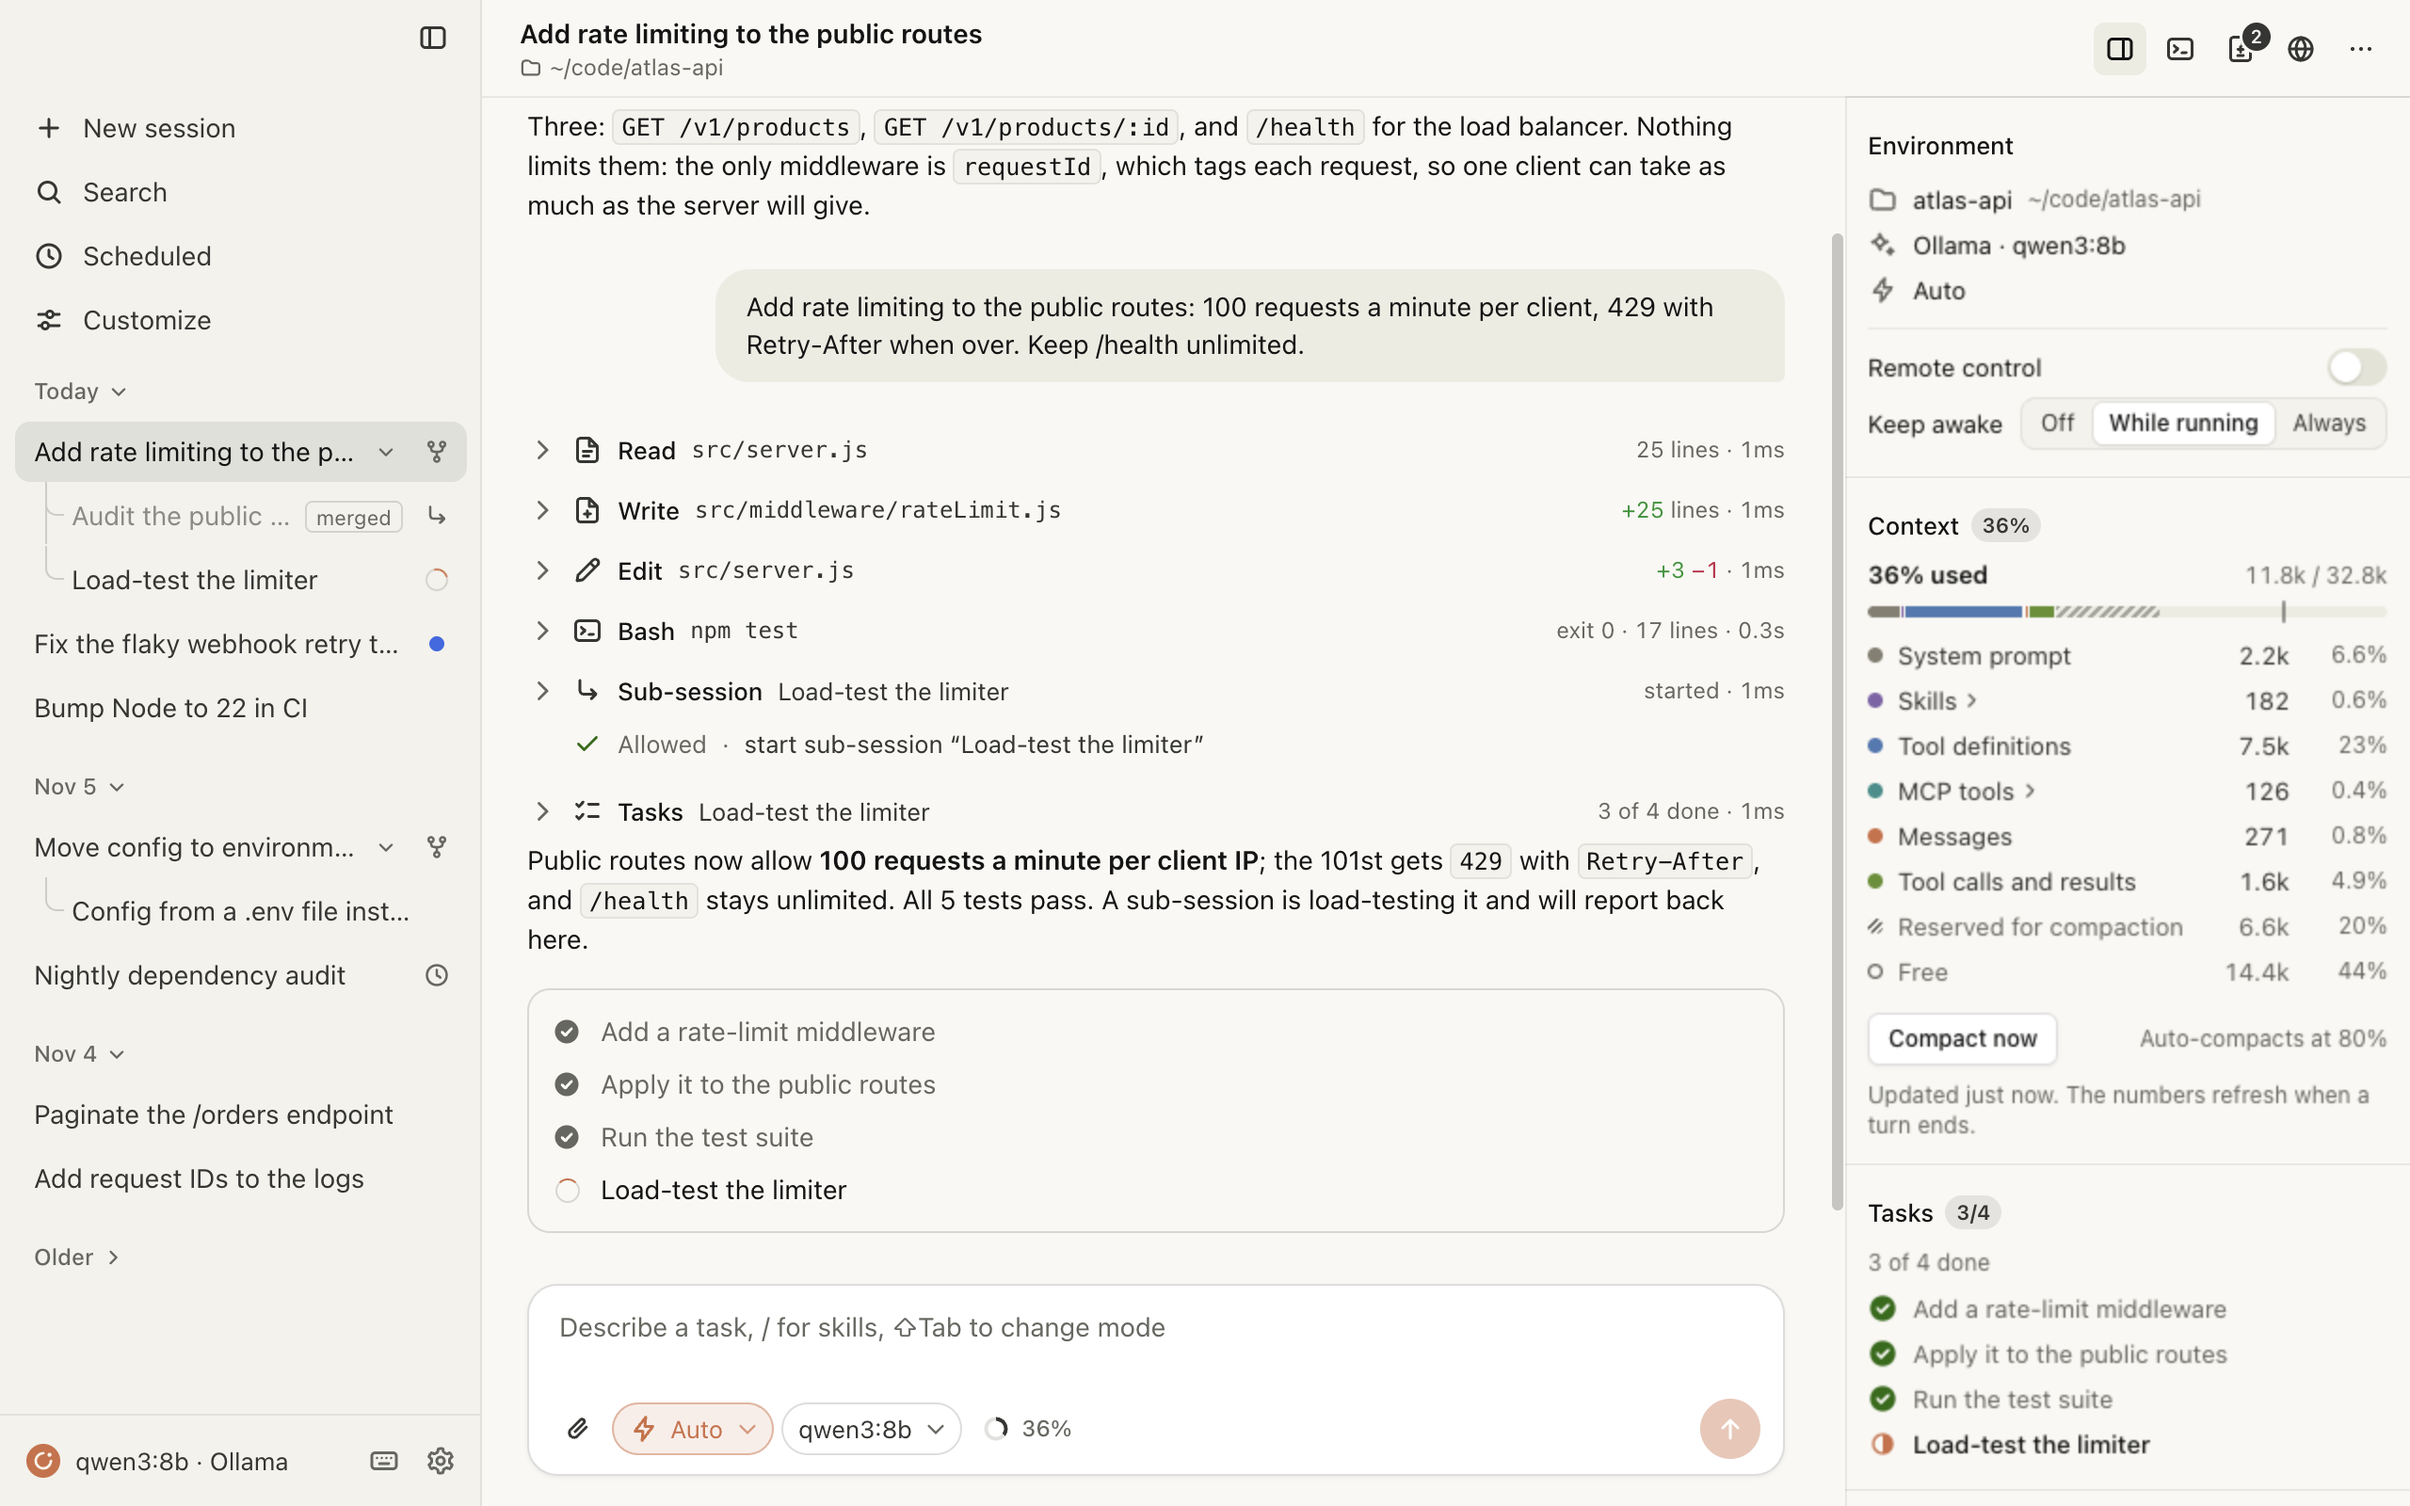
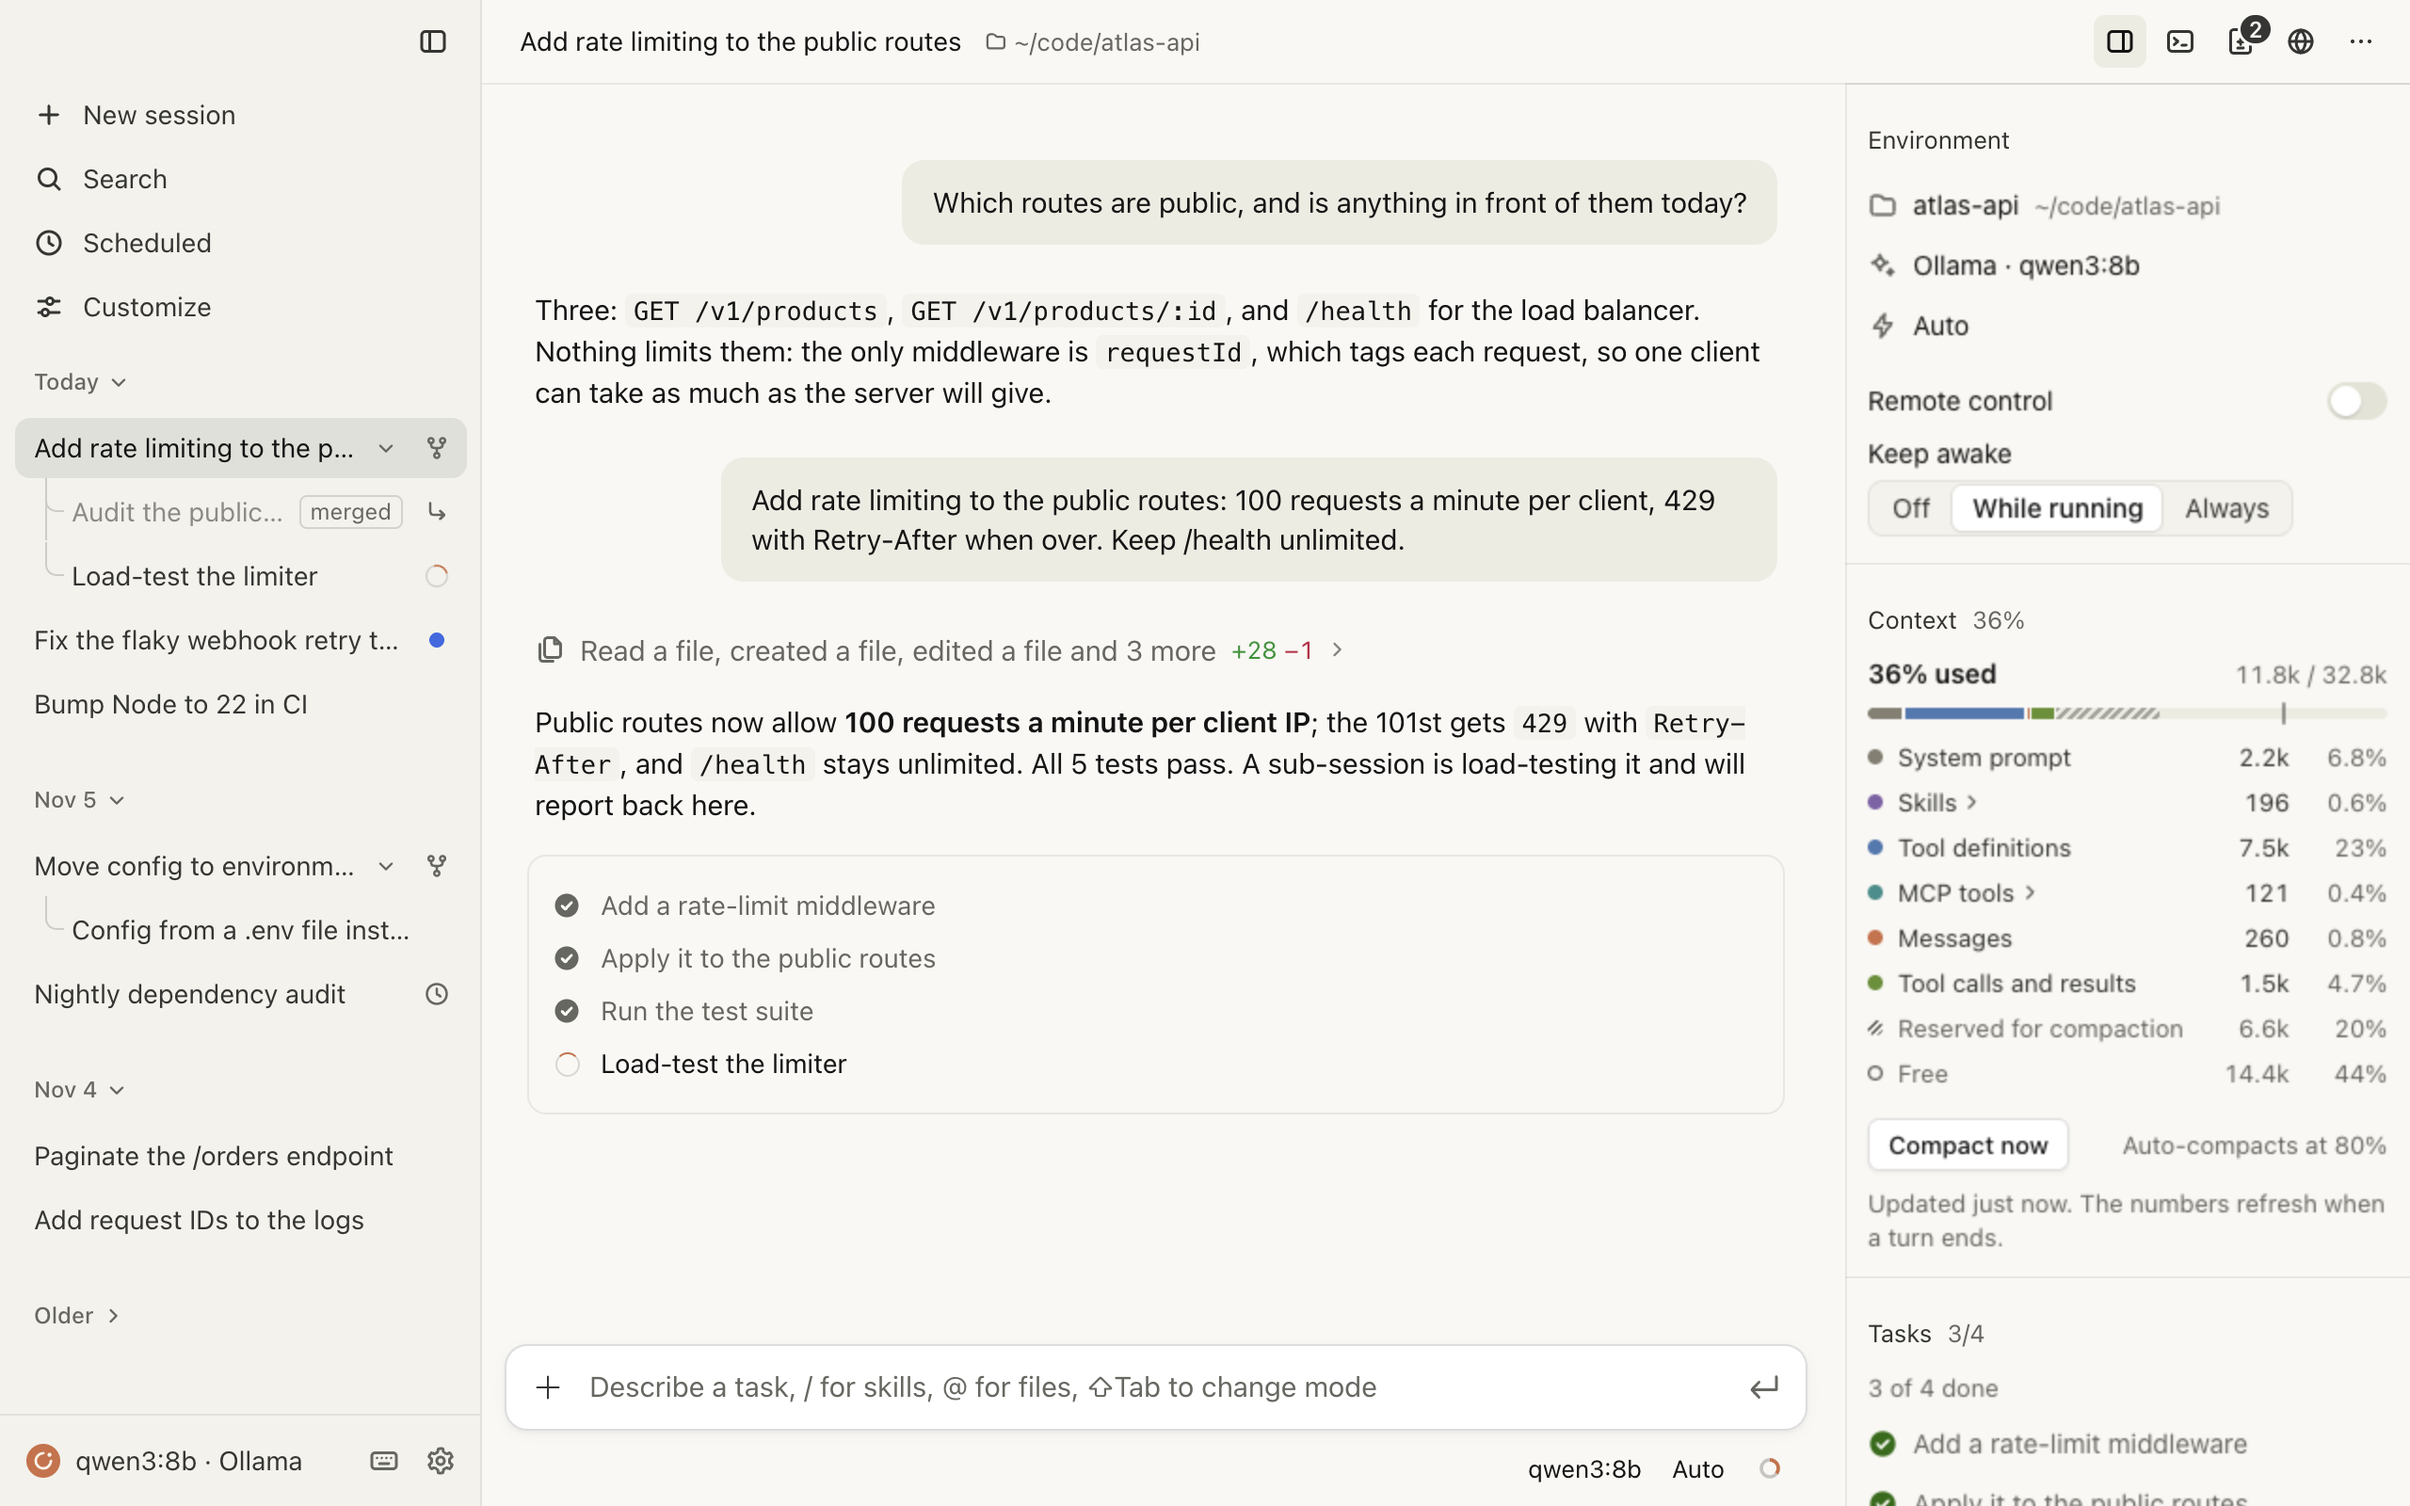
README screenshots on the 0.3.0 design; a screenshot of a look set and the script that takes it

diff --git a/scripts/looks-shot.js b/scripts/looks-shot.js
@@ -1,0 +1,93 @@
+// Makes the README's screenshot of a look set: Hyperspace, in dark, while a run is going (the stars are streaks).
+//
+// Like scripts/readme-shots.js, whose project, sessions and scripted replies it uses: the built app runs hidden on a
+// throwaway profile against the scripted model, plays the hero turn, turns the bundled Hyperspace mod on, picks its
+// conversation look, chat bar look and background, starts a run that does not end, and takes the picture.
+//
+//   npm run build   (once; dist/ must be current)
+//   node scripts/looks-shot.js [out-file]      default: docs/screenshots/hyperspace.png
+const fs = require('node:fs');
+const os = require('node:os');
+const path = require('node:path');
+const F = require('./readme-shots.js');
+const { launch, sleep } = require('../test/live/rig.js');
+const { startMock } = require('../test/support/mock-model.js');
+
+const out = path.resolve(process.argv[2] || path.join(__dirname, '..', 'docs', 'screenshots', 'hyperspace.png'));
+const js = JSON.stringify;
+
+async function main() {
+  F.makeProject();
+  const profile = fs.mkdtempSync(path.join(os.tmpdir(), 'oh-looks-shot-'));
+  fs.writeFileSync(path.join(F.HOME, '.zprofile'), `export PATH=${js(process.env.PATH)}\n`);
+  const ids = F.seedSessions(profile);
+  const mock = await startMock();
+  mock.state.ollamaPromptTokens = 8000;
+  mock.state.ollamaModels = ['qwen3:8b', 'qwen3:14b'];
+  const inspect = await F.freePort(0);
+  let app;
+  try {
+    app = await launch({
+      args: [`--inspect=${inspect}`],
+      profile,
+      project: F.PROJECT,
+      mock: true,
+      mode: 'auto',
+      size: { width: 1440, height: 900 },
+      env: { HOME: F.HOME, OPEN_HARNESS_CONFIG_DIR: F.CONFIG_DIR },
+      config: {
+        provider: 'ollama',
+        ollama: { baseURL: `http://127.0.0.1:${mock.port}`, model: 'qwen3:8b', numCtx: 32768, think: 'auto' },
+        theme: 'dark',
+        remote: { enabled: false, bind: 'localhost', port: 0 },
+        recentDirs: [F.PROJECT],
+      },
+    });
+    const ev = app.evaluate;
+    const win = `process.mainModule.require('electron').BrowserWindow.getAllWindows()[0]`;
+    // A hidden window draws no frames by itself: keep every page painting so the starfield moves
+    await F.mainEval(inspect, `(() => { const { webContents } = process.mainModule.require('electron'); setInterval(() => { for (const w of webContents.getAllWebContents()) if (!w.isDestroyed()) w.invalidate(); }, 120); ${win}.setContentSize(1440, 900); return true; })()`);
+
+    await app.waitFor(`Boolean(document.querySelector('.session-item[data-id=${js(ids.main)}]'))`, 15_000, 'the seeded sessions');
+    await app.click(`.session-item[data-id=${js(ids.main)}]`);
+    await app.waitFor(`document.querySelector('.session-item.active')?.dataset.id === ${js(ids.main)}`, 10_000, 'the main session');
+    await ev(`(() => { if (!document.querySelector('.shell').classList.contains('pane-hidden')) document.querySelector('#pane-close').click(); })()`);
+
+    // The hero turn, so there is a conversation to dress
+    F.scriptHero(mock);
+    await app.send('Add rate limiting to the public routes: 100 requests a minute per client, 429 with Retry-After when over. Keep /health unlimited.');
+    await app.approve('allow');
+    await app.waitFor(`document.querySelector('#status-line').hidden`, 60_000, 'the hero run to end');
+    await sleep(1200);
+
+    // The set: both looks and the background from the one mod
+    await ev(`window.oc.rpc('mods.setEnabled', 'hyperspace', true)`);
+    await sleep(600);
+    await ev(`window.oc.rpc('mods.setLayout', ${js({ looks: { conversation: 'hyperspace/holo', composer: 'hyperspace/cockpit' }, background: 'hyperspace/starfield' })})`);
+    await app.waitFor(`window.__oc_debug.mods.views().some((v) => v.key === 'hyperspace/starfield' && v.hello)`, 20_000, 'the starfield');
+
+    // A run that does not end by itself: the stars stretch into streaks about two seconds in
+    mock.state.replies.push({ when: F.isMain, delayMs: 30_000, content: 'Still going.' });
+    await app.send('Run the load test once more and compare the two minutes.');
+    await app.waitFor(`document.querySelector('#messages').dataset.running === 'true'`, 10_000, 'the run to start');
+    await ev(`(() => { document.activeElement && document.activeElement.blur(); const m = document.querySelector('#messages'); m.scrollTop = m.scrollHeight; })()`);
+    await sleep(2600);
+    await F.mainEval(inspect, `(async () => { const w = ${win}; for (let i = 0; i < 3; i++) { w.webContents.invalidate(); await w.webContents.capturePage(); } return true; })()`);
+    await app.screenshot(out);
+    console.log(`wrote ${out} (${Math.round(fs.statSync(out).size / 1024)} KB)`);
+    await ev(`window.oc.abort()`);
+  } finally {
+    if (app) await app.close();
+    mock.close();
+    fs.rmSync(profile, { recursive: true, force: true });
+    fs.rmSync(F.HOME, { recursive: true, force: true });
+  }
+}
+
+main().then(
+  () => process.exit(0),
+  (e) => {
+    console.error(e && e.stack);
+    process.exit(1);
+  },
+);

diff --git a/README.md b/README.md
@@ -38,6 +38,7 @@ Hosted models: Settings → Model → Gateway. For Portkey, add your Portkey key
 | | |
 | --- | --- |
 | <img src="docs/screenshots/mods.png" width="400"> | **Mods.** Environment, Context, Tasks, Plan, Outputs, Sub-sessions and Skills in the rail; Side chat and Scheduled as tabs. All written against the protocol in [docs/mods.md](docs/mods.md). |
+| <img src="docs/screenshots/hyperspace.png" width="400"> | **Looks.** A mod can restyle just the conversation or just the chat bar, and bring a background; Settings → Appearance picks each one, or a whole set. Hyperspace, a bundled set, jumps to lightspeed while the agent works. |
 | <img src="docs/screenshots/sidebar.png" width="400"> | **Sessions.** Several at once, grouped by day, forks and sub-sessions nested under where they came from, search inside conversations. |
 | <img src="docs/screenshots/images.png" width="400"> | **Images in replies.** The model shows a screenshot or a chart inline; tool rows carry thumbnails. |
 | <img src="docs/screenshots/settings.png" width="400"> | **Settings.** One control per row, applied as you change it, searchable; a Mods section with permissions in plain words. |

diff --git a/docs/releasing.md b/docs/releasing.md
@@ -27,7 +27,7 @@ Work that is merged but not released sits under `## Unreleased` at the top of [C
 
 Development happens on `next`; `main` is what was released.
 
-1. On `next`, rename `## Unreleased` in CHANGELOG.md to `## X.Y.Z` and set the version: `npm version X.Y.Z --no-git-tag-version`. If the window changed, redo the README screenshots (`npm run build && node scripts/readme-shots.js`) and look at them.
+1. On `next`, rename `## Unreleased` in CHANGELOG.md to `## X.Y.Z` and set the version: `npm version X.Y.Z --no-git-tag-version`. If the window changed, redo the README screenshots (`npm run build && node scripts/readme-shots.js && node scripts/looks-shot.js`) and look at them.
 2. Check the code: `npm run typecheck`, `npm test`, and `npm run test:live` with `ANTHROPIC_API_KEY` set, so the live scripts run against a real model.
 3. Build what will ship: `npm run dist` (a DMG and a zip in `release/`). Unpack the zip and run the live scripts against that app (`OPEN_HARNESS_LIVE_APP=<path to the binary inside the .app> npm run test:live`), and at least `smoke` against the copy in the mounted DMG.
 4. Push `next` and open the pull request into `main`.
